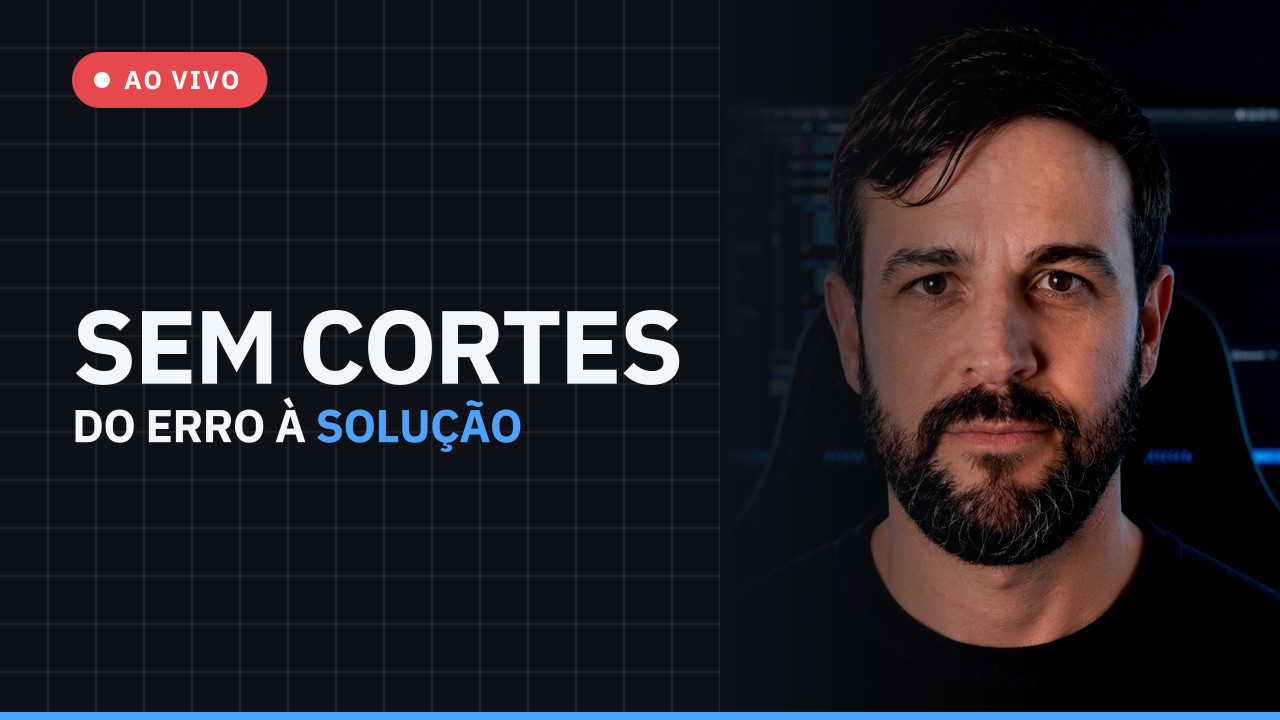
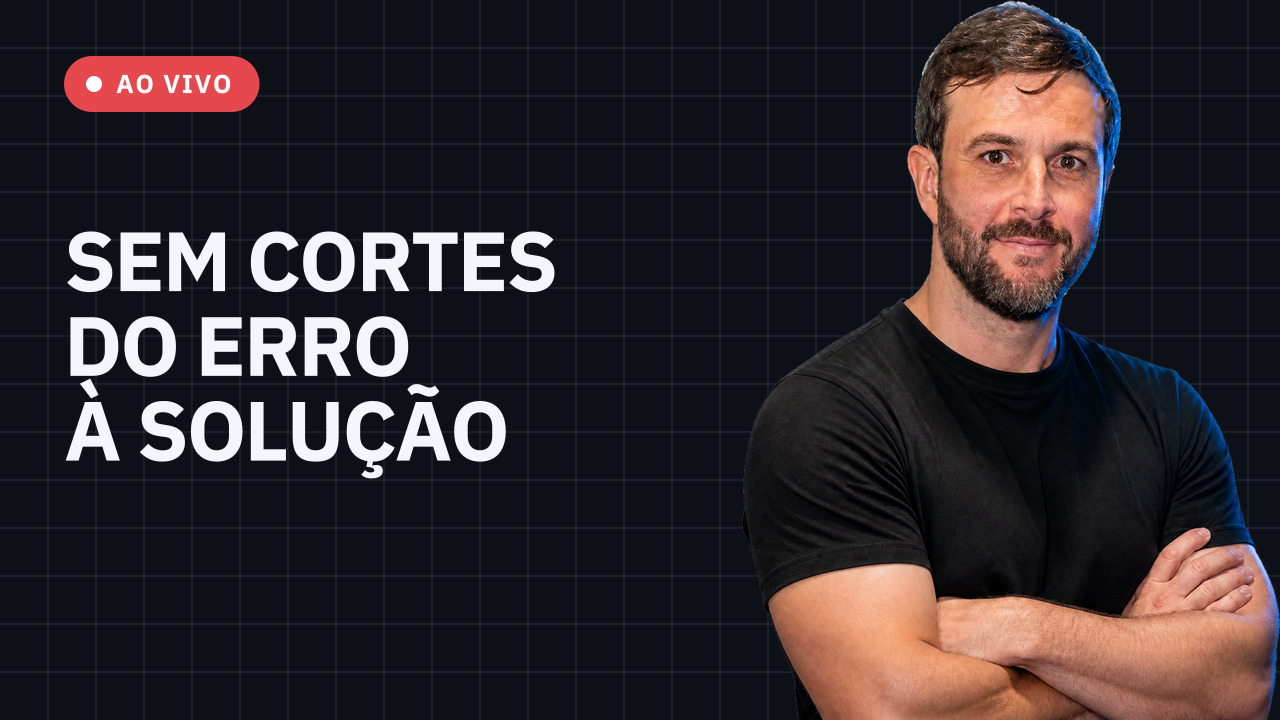
brand: rebuild the day-1 live cover in the cutout standard
Same layout as the generic covers with two deliberate departures. The
badge is red because it signals live state, the meaning red already
carries in this system and the convention every platform uses, and its
text is white because #E5484D is dark enough to take it. The headline
drops the blue accent word the old live covers used: with a red badge
already in frame, a blue word puts a third colour into a layout whose
references read clean precisely because they hold one.

Copy needed rebreaking, not shrinking. The standard's photo area is 640
wide against the old live layout's 560, so the text column lost 160px
and "DO ERRO À SOLUÇÃO" measured 810px against a 538px limit. Split
across two lines instead of reducing the body, since the standard sets
one size per headline and shrinking to fit one long line would have cost
the whole block its weight.

Then the real find. Line height 0.95 is fine for unaccented capitals and
collides the moment Portuguese arrives: at 84px body, "À" rises 82.1px
above its baseline while 0.95 leaves 79.8px, so the accent sits 3.3px
inside the line above. Measured rather than eyeballed after the render
looked crowded. "Ç" attacks from the other side, dropping 17.8px below
its own baseline.

Fixed at the source instead of nudging this one cover: line height is
now solved from the glyphs actually being set, pair by pair, taking the
larger of 0.95 and the safe minimum, uniform across the block. It fires
[…]

diff --git a/brand/PADRAO-CAPAS.md b/brand/PADRAO-CAPAS.md
@@ -38,6 +38,18 @@ Nas referências a headline é inteiramente branca e a cor vive só na pílula. 
 
 Corpo de 90px no horizontal e 118px no vertical, conferido contra a coluna disponível a cada build.
 
+**Entrelinha de 0,95 é o alvo, não o valor final.** Esse número funciona para maiúsculas sem acento e aperta demais assim que aparece português. Em corpo de 84px o `À` sobe 82,1px acima da linha de base enquanto 0,95 só oferece 79,8px, então o acento entra na linha de cima por 3,3px. O `Ç` piora pelo outro lado, descendo 17,8px abaixo da própria base.
+
+O gerador resolve a entrelinha a partir dos glifos que estão de fato compostos, par a par, e usa o maior valor entre 0,95 e o mínimo seguro. Uniforme no bloco inteiro, porque variar linha a linha vira outro defeito. O build avisa quando precisa ajustar.
+
+### Capa de transmissão ao vivo
+
+Duas diferenças em relação ao padrão genérico, ambas deliberadas.
+
+O selo é vermelho `#E5484D` com texto branco, porque sinaliza estado e não marca. É o significado que o vermelho já tem neste sistema e a convenção que toda plataforma usa. Aqui o texto é branco, ao contrário do selo azul, porque o vermelho é escuro o suficiente para isso.
+
+A headline fica inteiramente branca, sem a palavra em azul que as capas de live antigas usavam. Com o selo vermelho já no quadro, uma palavra azul colocaria uma terceira cor num layout cuja limpeza vem justamente de ter uma só.
+
 ### Foto
 
 Recortada, sem fundo, sangrando na base do quadro.
